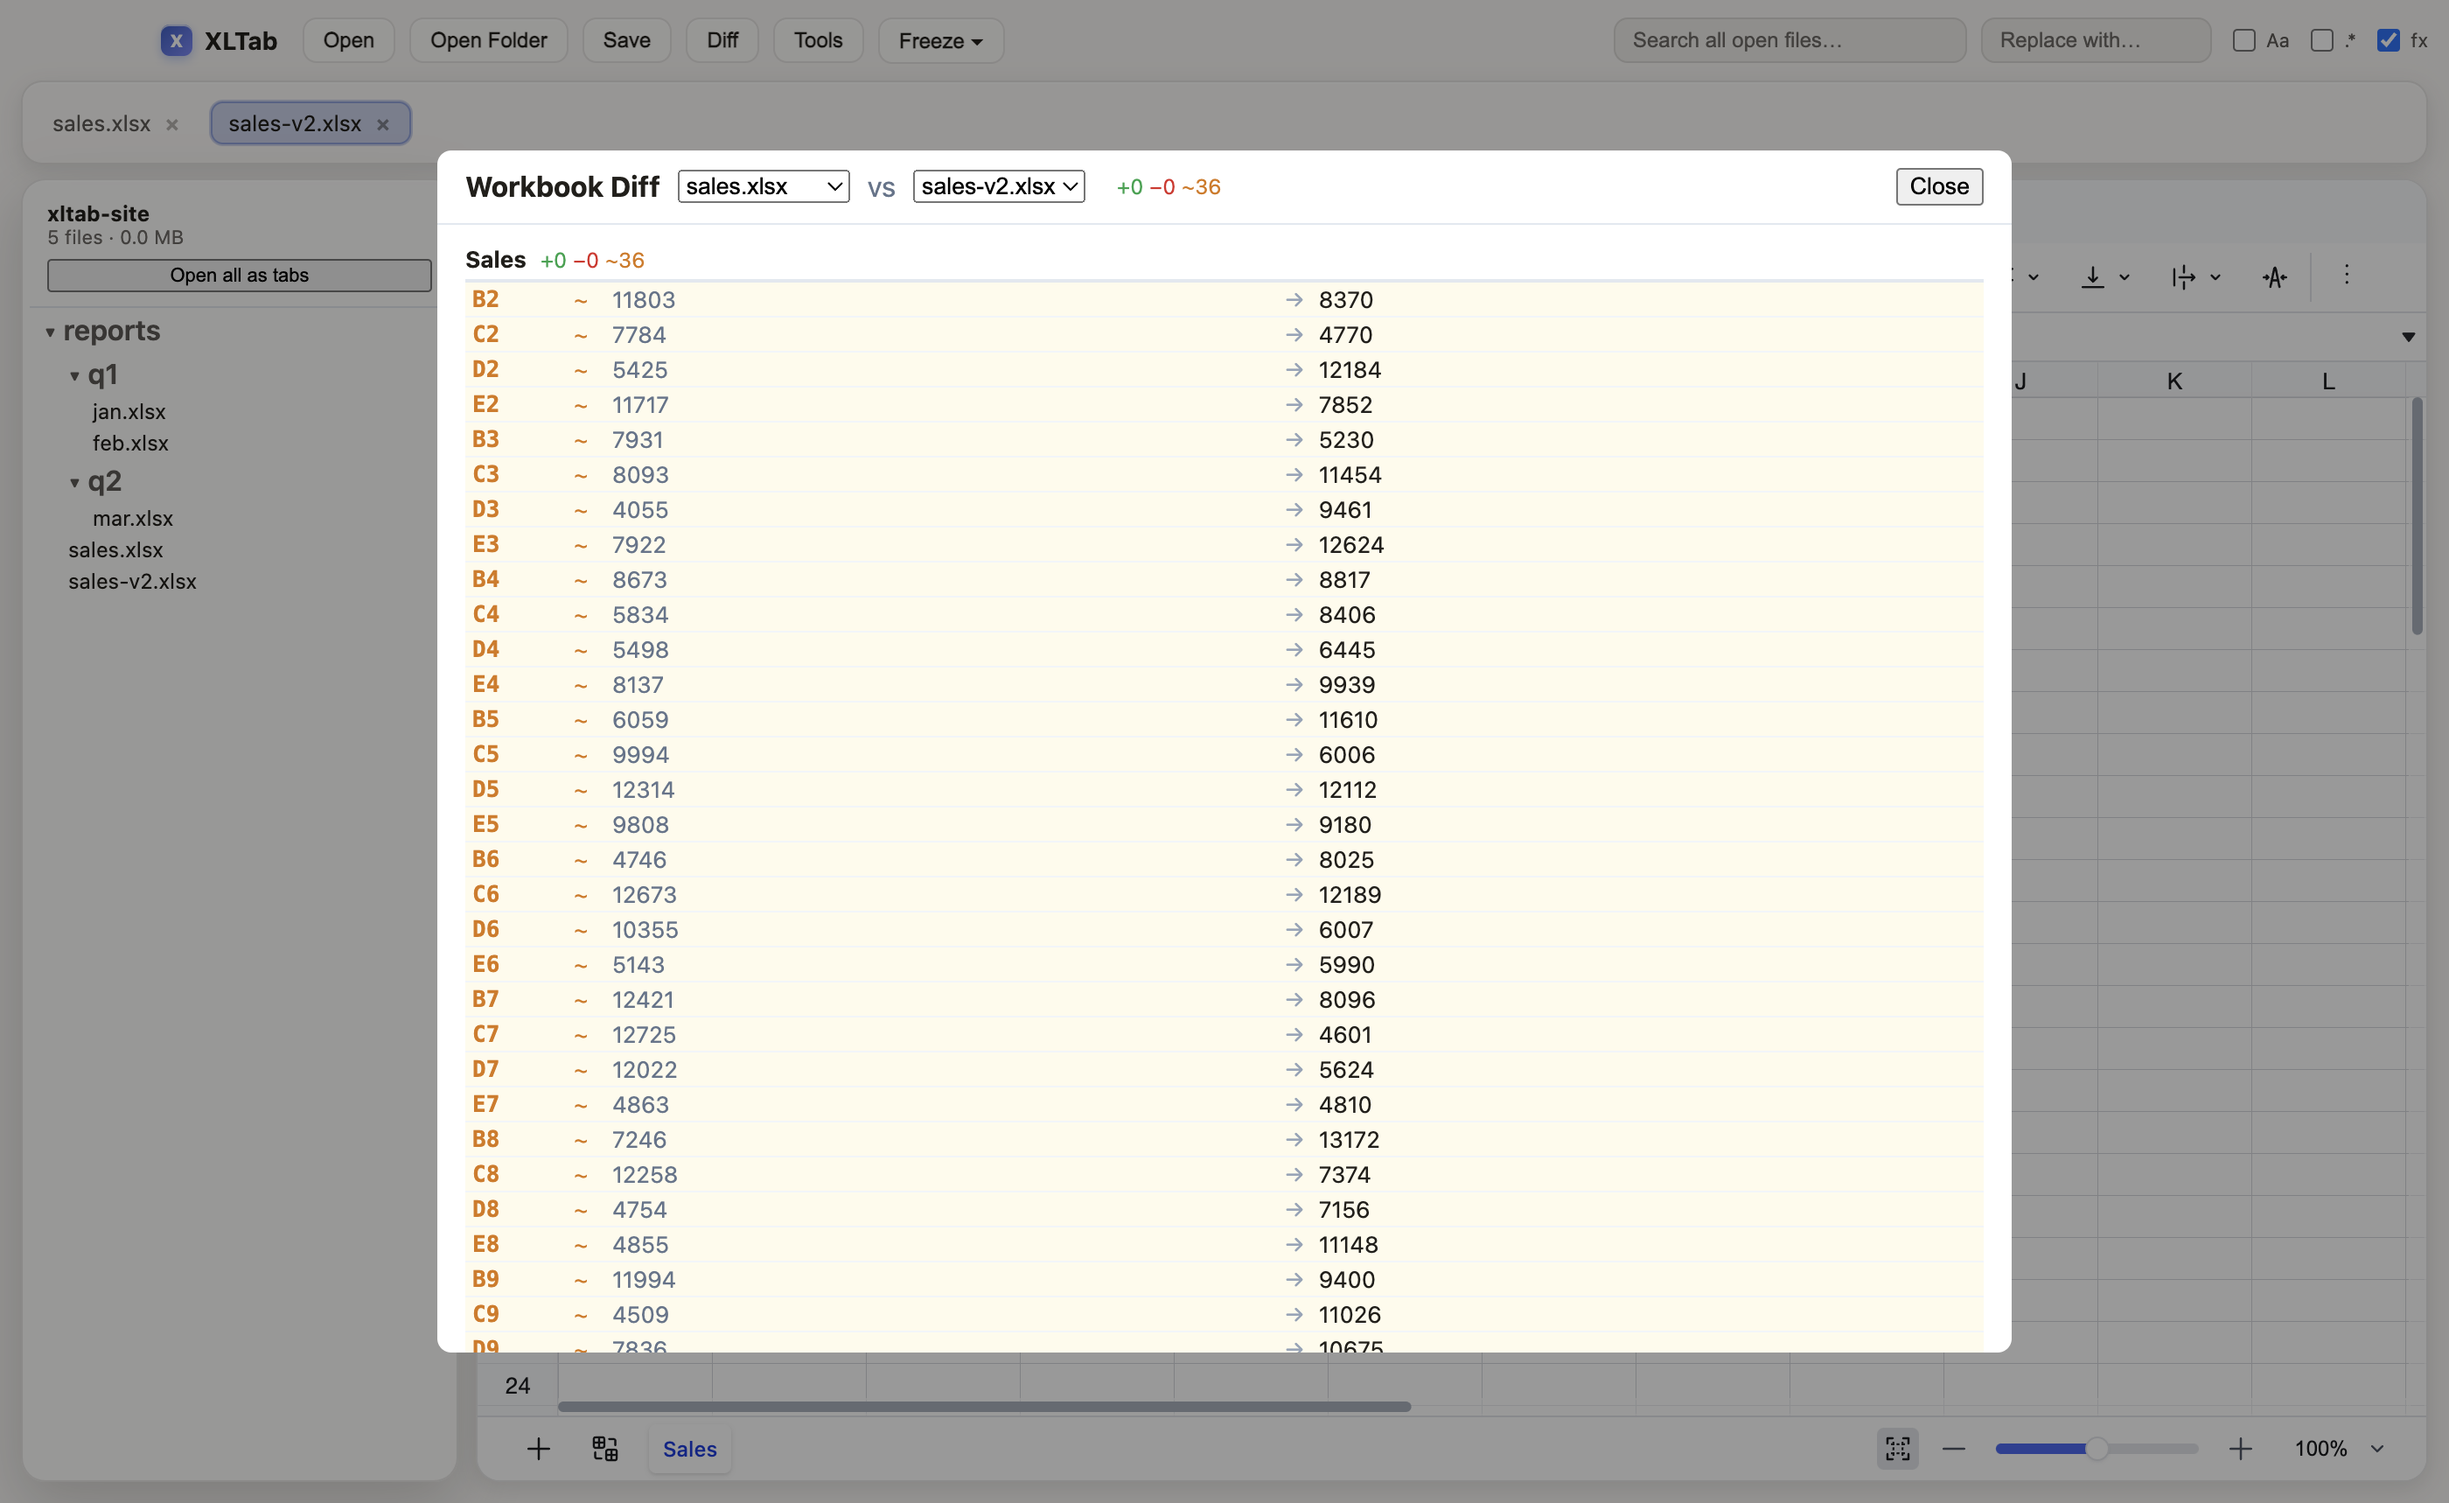
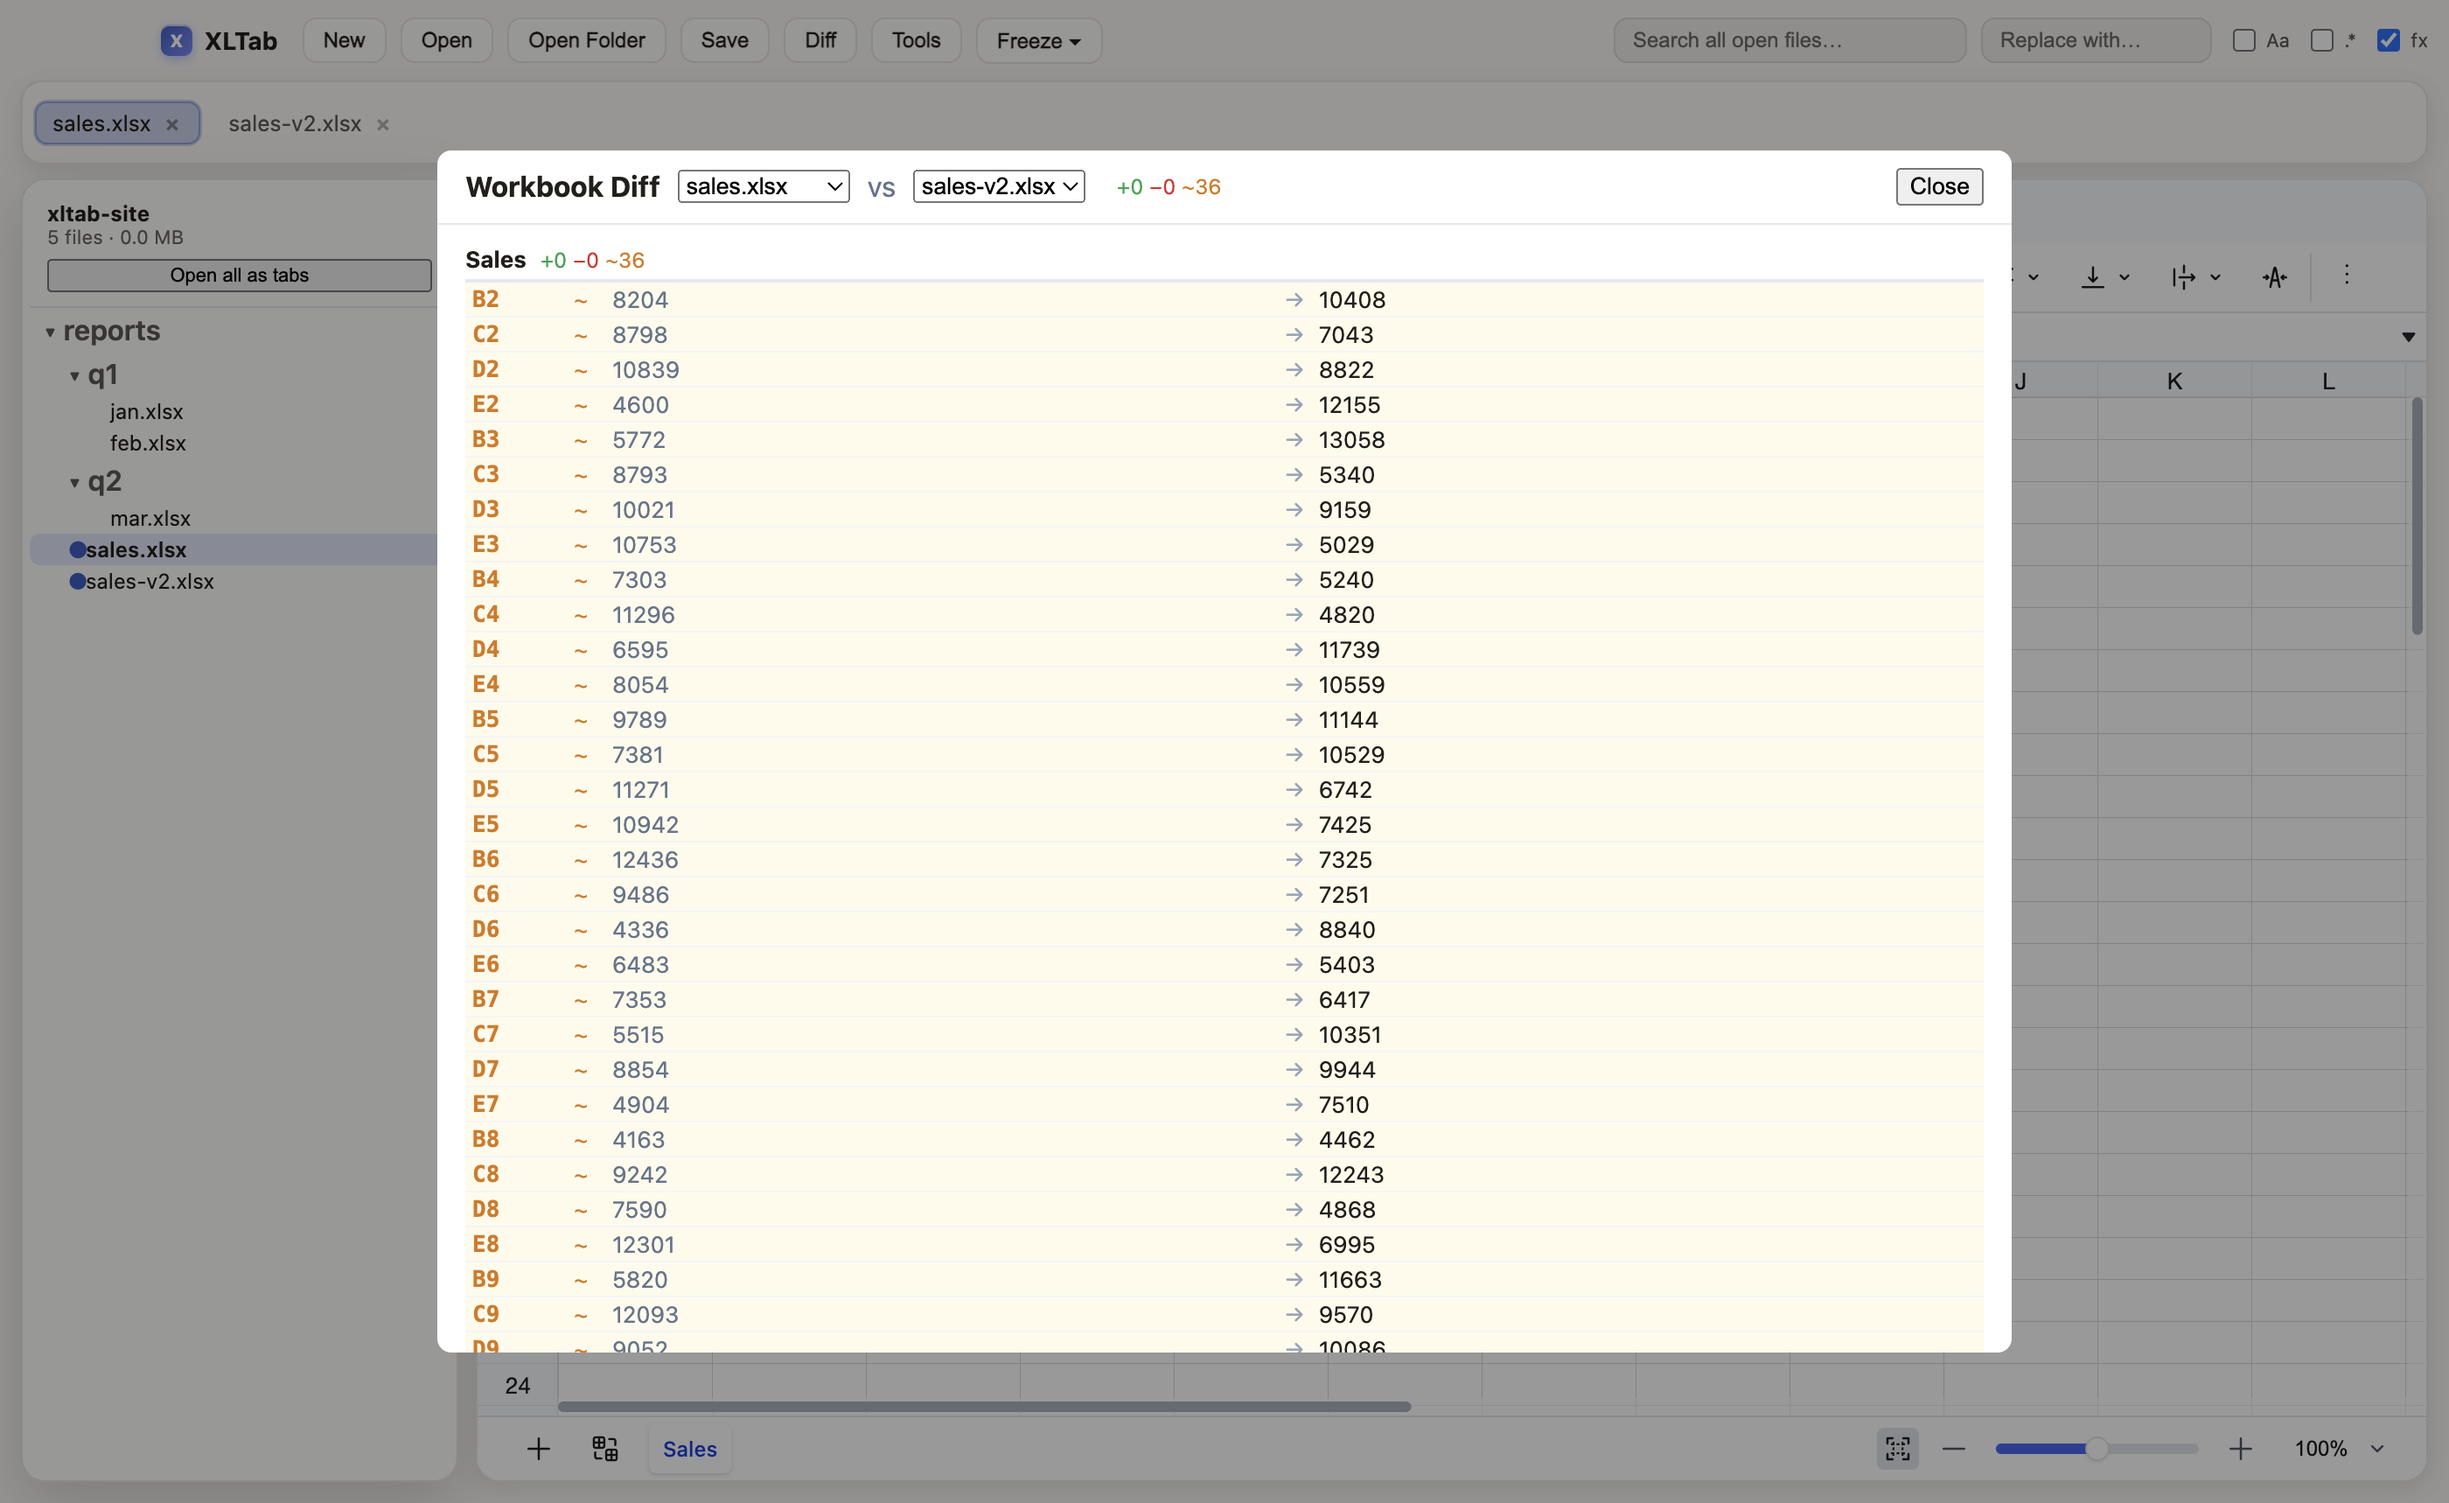
#101 Refresh site for blank workbook creation

diff --git a/index.html b/index.html
@@ -5,12 +5,12 @@
 <meta name="viewport" content="width=device-width, initial-scale=1" />
 <meta name="theme-color" content="#0b0f17" />
 <title>XLTab — Tabbed Spreadsheet Workspace for Windows</title>
-<meta name="description" content="Open every workbook as a tab. Search across all of them at once, diff workbooks cell-by-cell, and clean, combine, split, select, convert, and inspect formulas with preview-first power tools. Free, offline, no account." />
+<meta name="description" content="Create blank workbooks or open every workbook as a tab. Search across all of them at once, diff workbooks cell-by-cell, and clean, combine, split, select, convert, and inspect formulas with preview-first power tools. Free, offline, no account." />
 <link rel="canonical" href="https://nkunal1992.github.io/XLTab-site/" />
 <link rel="icon" type="image/png" sizes="32x32" href="favicon-32.png" />
 <link rel="apple-touch-icon" href="apple-touch-icon.png" />
 <meta property="og:title" content="XLTab — every workbook, one tab strip" />
-<meta property="og:description" content="Tabbed spreadsheet workspace: search across all open workbooks, diff workbooks cell-by-cell, open whole folders at once, and apply safe preview-first power tools. Free, offline." />
+<meta property="og:description" content="Tabbed spreadsheet workspace: create blank workbooks, search across all open workbooks, diff workbooks cell-by-cell, open whole folders at once, and apply safe preview-first power tools. Free, offline." />
 <meta property="og:type" content="website" />
 <meta property="og:site_name" content="XLTab" />
 <meta property="og:url" content="https://nkunal1992.github.io/XLTab-site/" />
@@ -58,7 +58,7 @@
     <div>
       <p class="eyebrow">Free &middot; Offline &middot; Windows</p>
       <h1>Every workbook, <span class="grad">one tab strip</span>.</h1>
-      <p class="lead">XLTab opens your spreadsheets as tabs — then does what Excel can't: search across all open workbooks at once, open whole folders as a workspace, diff two workbooks cell-by-cell, and run preview-first cleanup, combine/split, selection, formula, and conversion tools. Formulas, filters, merged cells and styles intact.</p>
+      <p class="lead">Create a blank workbook in one click or open your spreadsheets as tabs — then do what Excel can't: search across all open workbooks at once, open whole folders as a workspace, diff two workbooks cell-by-cell, and run preview-first cleanup, combine/split, selection, formula, and conversion tools. Formulas, filters, merged cells and styles intact.</p>
       <div class="hero-cta">
         <a class="cta-win" href="https://apps.microsoft.com/detail/9N1TDMMXJTDV"><img class="badge-store" src="assets/ms-badge.svg" alt="Get it from Microsoft" width="190" height="52" /></a>
         <a class="more" href="features.html">See every feature →</a>
@@ -71,7 +71,7 @@
       </div>
     </div>
     <figure class="frame glow">
-      <img src="assets/p/hero.png" width="1280" height="758" alt="XLTab with three workbooks open as tabs, search results spanning all of them" />
+      <img src="assets/p/hero.png" width="1280" height="758" alt="XLTab with workbooks open as tabs and the New button visible in the title bar" />
     </figure>
   </div>
 </header>
@@ -129,7 +129,7 @@
   <h2>Questions, answered</h2>
   <div class="faq wrap" style="max-width:820px;text-align:left">
     <details><summary>Is XLTab really free?</summary><p>Yes. All features, no subscription, no account, no trial period.</p></details>
-    <details><summary>Does it replace Excel?</summary><p>No — it's a companion workspace for working across many files. It covers the everyday essentials: formulas, filtering, sorting, merged cells, styles, number formats, conditional formatting and data validation. It does not do pivot tables, charts, macros/VBA or Power Query. Files you save stay standard .xlsx and open fine in Excel.</p></details>
+    <details><summary>Does it replace Excel?</summary><p>No — it's a companion workspace for working across many files. It covers the everyday essentials: creating blank workbooks, editing, formulas, filtering, sorting, merged cells, styles, number formats, conditional formatting and data validation. It does not do pivot tables, charts, macros/VBA or Power Query. Files you save stay standard .xlsx and open fine in Excel.</p></details>
     <details><summary>Will my formulas survive a round-trip?</summary><p>Yes. Formulas are preserved as formulas in the file — including modern functions like XLOOKUP — and recalculate in Excel exactly as before. The validation suite checks this continuously.</p></details>
     <details><summary>Does it need internet?</summary><p>No. XLTab is fully offline — every feature works without a connection, and the app makes no network calls. Your files never leave your machine.</p></details>
     <details><summary>Which files can it open?</summary><p>.xlsx, .xlsm (content, not macros) and .csv. Legacy binary .xls is not supported — convert it to .xlsx first.</p></details>

diff --git a/404.html b/404.html
@@ -5,12 +5,12 @@
 <meta name="viewport" content="width=device-width, initial-scale=1" />
 <meta name="theme-color" content="#0b0f17" />
 <title>XLTab — Tabbed Spreadsheet Workspace for Windows</title>
-<meta name="description" content="Open every workbook as a tab. Search across all of them at once, filter, sort, edit with full formula support, and diff two workbooks cell-by-cell. Free, offline, no account." />
+<meta name="description" content="Create blank workbooks or open every workbook as a tab. Search across all of them at once, filter, sort, edit with full formula support, and diff two workbooks cell-by-cell. Free, offline, no account." />
 <link rel="canonical" href="https://nkunal1992.github.io/XLTab-site/" />
 <link rel="icon" type="image/png" sizes="32x32" href="favicon-32.png" />
 <link rel="apple-touch-icon" href="apple-touch-icon.png" />
 <meta property="og:title" content="XLTab — every workbook, one tab strip" />
-<meta property="og:description" content="Tabbed spreadsheet workspace: search across all open workbooks, diff workbooks cell-by-cell, open whole folders at once. Free, offline." />
+<meta property="og:description" content="Tabbed spreadsheet workspace: create blank workbooks, search across all open workbooks, diff workbooks cell-by-cell, and open whole folders at once. Free, offline." />
 <meta property="og:type" content="website" />
 <meta property="og:site_name" content="XLTab" />
 <meta property="og:url" content="https://nkunal1992.github.io/XLTab-site/" />
@@ -58,7 +58,7 @@
     <div>
       <p class="eyebrow">Free &middot; Offline &middot; Windows</p>
       <h1>Every workbook, <span class="grad">one tab strip</span>.</h1>
-      <p class="lead">XLTab opens your spreadsheets as tabs — then does what Excel can't: search across all open workbooks at once, open whole folders as a workspace, and diff two workbooks cell-by-cell. Formulas, filters, merged cells and styles intact.</p>
+      <p class="lead">Create a blank workbook in one click or open your spreadsheets as tabs — then do what Excel can't: search across all open workbooks at once, open whole folders as a workspace, and diff two workbooks cell-by-cell. Formulas, filters, merged cells and styles intact.</p>
       <div class="hero-cta">
         <a class="cta-win" href="https://apps.microsoft.com/detail/9N1TDMMXJTDV"><img class="badge-store" src="assets/ms-badge.svg" alt="Get it from Microsoft" width="190" height="52" /></a>
         <a class="more" href="features.html">See every feature →</a>
@@ -71,7 +71,7 @@
       </div>
     </div>
     <figure class="frame glow">
-      <img src="assets/p/hero.png" width="1280" height="758" alt="XLTab with three workbooks open as tabs, search results spanning all of them" />
+      <img src="assets/p/hero.png" width="1280" height="758" alt="XLTab with workbooks open as tabs and the New button visible in the title bar" />
     </figure>
   </div>
 </header>
@@ -128,7 +128,7 @@
   <h2>Questions, answered</h2>
   <div class="faq wrap" style="max-width:820px;text-align:left">
     <details><summary>Is XLTab really free?</summary><p>Yes. All features, no subscription, no account, no trial period.</p></details>
-    <details><summary>Does it replace Excel?</summary><p>No — it's a companion workspace for working across many files. It covers the everyday essentials: formulas, filtering, sorting, merged cells, styles, number formats, conditional formatting and data validation. It does not do pivot tables, charts, macros/VBA or Power Query. Files you save stay standard .xlsx and open fine in Excel.</p></details>
+    <details><summary>Does it replace Excel?</summary><p>No — it's a companion workspace for working across many files. It covers the everyday essentials: creating blank workbooks, editing, formulas, filtering, sorting, merged cells, styles, number formats, conditional formatting and data validation. It does not do pivot tables, charts, macros/VBA or Power Query. Files you save stay standard .xlsx and open fine in Excel.</p></details>
     <details><summary>Will my formulas survive a round-trip?</summary><p>Yes. Formulas are preserved as formulas in the file — including modern functions like XLOOKUP — and recalculate in Excel exactly as before. The validation suite checks this continuously.</p></details>
     <details><summary>Does it need internet?</summary><p>No. XLTab is fully offline — every feature works without a connection, and the app makes no network calls. Your files never leave your machine.</p></details>
     <details><summary>Which files can it open?</summary><p>.xlsx, .xlsm (content, not macros) and .csv. Legacy binary .xls is not supported — convert it to .xlsx first.</p></details>

diff --git a/features.html b/features.html
@@ -4,7 +4,7 @@
 <meta charset="utf-8" />
 <meta name="viewport" content="width=device-width, initial-scale=1" />
 <title>XLTab — Features</title>
-<meta name="description" content="XLTab features: tabbed workbooks, cross-workbook search, workbook diff, folder workspaces, filtering, formulas, cleanup, combine/split, sheet management, advanced selection, and conversion tools. Free and offline." />
+<meta name="description" content="XLTab features: blank workbook creation, tabbed workbooks, cross-workbook search, workbook diff, folder workspaces, filtering, formulas, cleanup, combine/split, sheet management, advanced selection, and conversion tools. Free and offline." />
 <link rel="canonical" href="https://nkunal1992.github.io/XLTab-site/features.html" />
 <link rel="icon" type="image/png" sizes="32x32" href="favicon-32.png" />
 <link rel="preload" href="assets/inter.woff2" as="font" type="font/woff2" crossorigin />
@@ -29,7 +29,7 @@
 <header class="hero" style="padding-bottom:20px">
   <p class="eyebrow">Features</p>
   <h1>Excel for editing. <span class="grad">Beyond Excel</span> for everything else.</h1>
-  <p class="lead">Every capability below is in the shipping app — no roadmap promises.</p>
+  <p class="lead">Start blank with <b>New</b> or <b>Ctrl+N</b>, edit immediately, and save as a standard .xlsx wherever you choose. Every capability below is in the shipping app — no roadmap promises.</p>
 </header>
 
 <section id="search">
